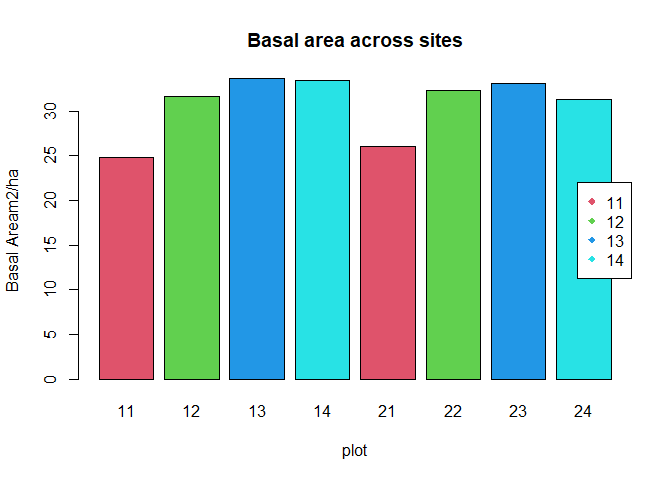
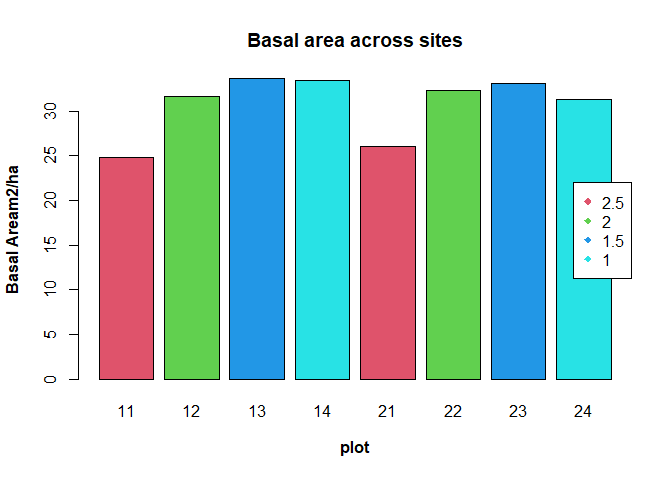
Lab 7 started and rmarkdown file edited, stopped at experiment 3 to be continued

Changed region(s): [[0.8438, 0.375, 0.9375, 0.5938], [0.0, 0.3438, 0.0312, 0.625], [0.5, 0.9062, 0.5625, 0.9688]]

diff --git a/Readme.md b/Readme.md
@@ -265,13 +265,16 @@ legend('topleft',
 
 The data seems to be alright, we can now proceed with the analysis
 
--   \_ \*
-
 ### Basal Area Estimation
 
-We estimate the average of the two diameters, we also square the result
-to get values needed to estimate the quadratic mean then we calculate
-the basal area
+Basal area is the average amount of an area occupied by tree stems,
+defined as the cross-sectional area of all stems in a stand measured at
+breast height (dbh) and express as per unit of land area.The formula of
+dbh is
+*B**A* = *π*(*D**B**H*/2)<sup>2</sup>
+Where: - BA = Basal area
+
+-   DBH = diameter at breast height (1.3m above ground)
 
 ``` r
 ## average of the two diameter
@@ -286,12 +289,13 @@ dbh1012$ba <- pi * ((dbh1012$dm/2)^2)
 
 -   dm: mean of both diameter
 
--   dd: diameter raised to the power 2
+-   dd: dbh squared
 
 -   ba: basal area
 
-The values will be summarized to give a clear value for each plots then
-combined with the plot characteristics for further analysis
+The sum of basal area for each plots can be measured now using doBy’s
+`summaryBy` function and the result merge with `site1012` to have a more
+robust dataset
 
 ``` r
 plotba <-summaryBy(ba~plot, data = dbh1012, FUN = sum)
@@ -311,8 +315,8 @@ site1012
     ## 7   23 0.0288       1.5  953649.5
     ## 8   24 0.0288       1.0  903224.4
 
-With this table we can estimate the basal area per hectare and the basal
-area per treatment
+Now we can estimate the basal area per hectare and basal area of each
+treatments.
 
 ``` r
 ## Estimating the basal area per hectare
@@ -341,18 +345,33 @@ site1012
 barplot(site1012$baham2,
         names.arg = site1012$plot,
         col = c(2,3,4,5),
-        ylab = 'Basal Aream2/ha',
-        xlab = 'plot',
+        ylab = substitute(paste(bold('Basal Aream2/ha'))),
+        xlab = substitute(paste(bold('plot'))),
         main = 'Basal area across sites')
 legend('right',
-       legend = c('11','12','13','14'),
+       legend = unique(site1012$treatment),
        pch = 18,
+       cex = 1.0,
        col = c(2,3,4,5))
 ```
 
 ![](Readme_files/figure-markdown_github/unnamed-chunk-14-1.png)
 
 ### Stand Density Estimation
+
+Stand density is a quantitative measurement of a forest. It describes
+the number of individuals (trees) on a unit area in either absolute or
+relative terms. To read more on stand density click
+[here](https://www.sciencedirect.com/topics/agricultural-and-biological-sciences/stand-density#:~:text=Stand%20density%20is%20a%20quantitative,Avery%20and%20Burkhart%2C%201994).)
+
+**Estimating the stand density** To calculate the density we need some
+information. - The size of the forest: This is usually expressed in ha
+or m2
+
+-   The size of sample plots: this is important to calculate the total
+    number of plots in the stand.
+
+-   The number of trees in a sample plot
 
 Given the figures, we need extra information to be able to estimate the
 density of the stand. To do that, we estimate the plot density then
@@ -378,7 +397,8 @@ barplot(site1012$dens_ha,
         col = c(2,3,4,5))
 ```
 
-![](Readme_files/figure-markdown_github/unnamed-chunk-15-1.png)
+![](Readme_files/figure-markdown_github/unnamed-chunk-15-1.png) There’s
+a marked difference
 
 ### Deriving Arithmetic Mean Diameter(AMD) and Quadratic Mean Diameter(QMD)
 
